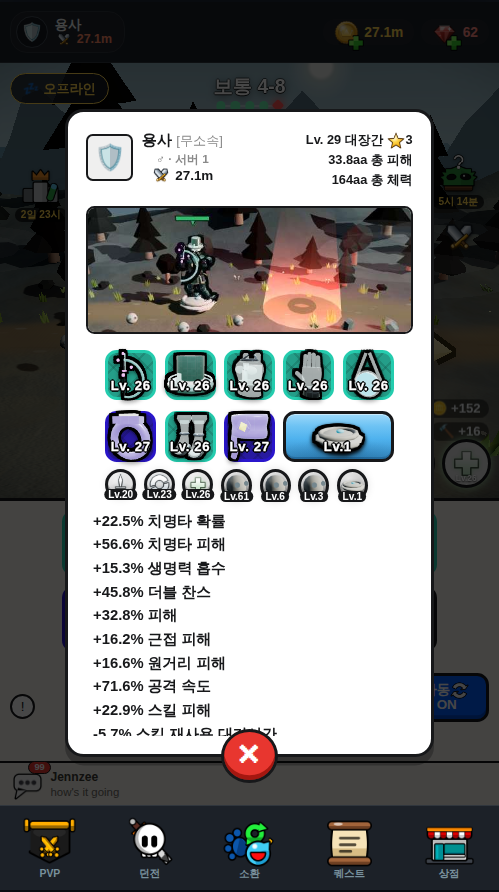
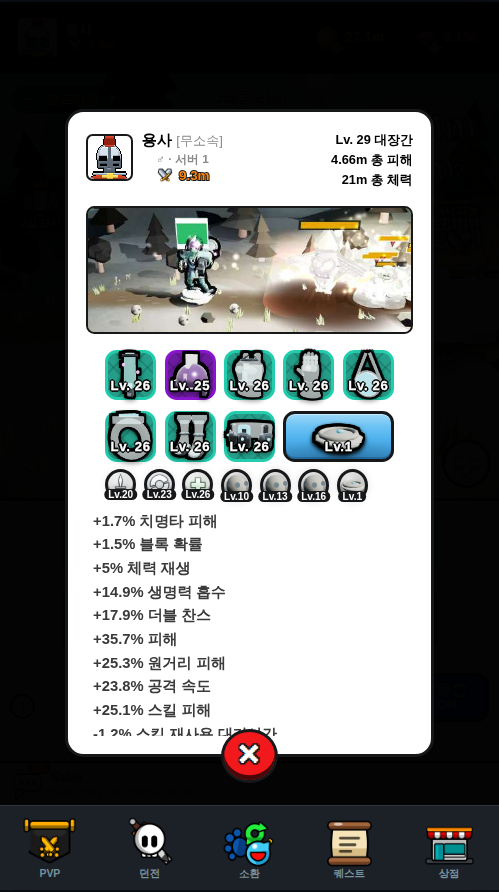
플레이어 정보 팝업 AAA 스킨 — 전투력·본문 잉크·✕ 를 원본 실측값으로 (aaa-skin ⑭)
원본 shot-043313 픽셀 단면에서 뽑은 값만 반영. 레이아웃은 기존 probe-pinfo-px
7요소 초과 0건(최대 +0.55%p)을 먼저 확인하고 건드리지 않았다.

- 전투력 숫자: --pp-ink(어두운 회색) → #ff880f + 검정 키라인.
  원본 헤더에서 가장 눈에 띄는 요소가 묻혀 있었다.
- 이름·우측 스탯: --pp-ink → 순검정(원본 획이 #000000)
- 하단 옵션 목록: --pp-ink → #3a3a3a. 굵어 보여 검정으로 오독하기 쉽지만
  원본 획 바닥값이 10군데에서 전부 #3a3a3a 다(⑫ .petd-subs 와 같은 위계).
- ✕ 면 #f2191d · 아래턱 #4a0709 · 흰 획 + 검정 키라인.
  ⑫·⑬ 에 이어 세 화면째 같은 값 — 알 상세·탈것 상세만 재면 전역 승격 가능.

전부 #player-info-modal 스코프(공용 클래스라 안 잰 화면이 끌려가지 않게).

검증: probe-pinfo-px 7요소 초과 0건(변경 후 동일) ·
probe-screens-errors 31/31 화면 콘솔 에러 0건

diff --git a/web/css/style.css b/web/css/style.css
@@ -5408,3 +5408,28 @@ body {
         drop-shadow(0 calc(var(--sw) * -1) 0 var(--slot-outc))
         drop-shadow(0 2px 2px rgba(0,0,0,.35));
 }
+
+/* ---- ⑭ 플레이어 정보 팝업 AAA 스킨 (원본 shot-043313 픽셀 실측 2026-08-18 · 배치는 손대지 않는다) ----
+   ① 레이아웃은 `probe-pinfo-px.js` 7요소 **초과 0건**(최대 +0.55%p)이라 한 줄도 안 건드렸다.
+   원본 496×880 의 색 단면에서 뽑은 값만 쓰고, 공용 클래스는 `#player-info-modal` 로 가둔다.
+   ㉠ 전투력 = y188 가로 단면이 **#ff880f + 검정 키라인**(획 #ff880f, 음영 #c1670b·#a05509, 경계 #000000).
+      클론은 `--pp-ink` 라 **어두운 회색 숫자**였다 — 원본에서 가장 눈에 띄는 요소가 죽어 있었다.
+   ㉡ 이름·우측 스탯 = **순검정**(y150 이름 획 #000000 / y163 우측 획 #000000). `--pp-ink`(#17181a)보다 진하다.
+      우측 줄 끝 ⭐ 는 원본이 **#ff8900**(x395~401)이다 — IconGen 소관이라 색만 기록하고 두: 아이콘은 안 건드린다.
+   ㉢ 🚨 하단 옵션 목록은 **순검정이 아니라 #3a3a3a 회색**이다(y551 단면의 획 바닥값이 x132·142·147·156·163·
+      168·170·185·192·199 에서 전부 #3a3a3a 로 반복). 굵어 보여서 검정으로 오독하기 쉽다 — ⑫ 의 `.petd-subs`
+      와 같은 값이라, 본문 잉크에 위계를 두는 게 이 게임의 규칙이다(제목·수치=검정, 옵션 목록=#3a3a3a).
+   ㉣ ✕ = 면 **#f2191d** · 아래턱 **#4a0709**(y774~779) · 글리프 흰 획 + 검정 키라인(y752~757 #ffffff → y759 #000000).
+      ⑫ 펫 상세·⑬ 펫 업그레이드에 이어 **세 화면에서 독립적으로 같은 값**이 나왔다 — 사실상 이 게임의 전역
+      ✕ 언어다. 다만 알 상세·탈것 상세가 아직 원본 대조 전이라 전역 `.x-btn` 승격은 미루고 스코프를 유지한다
+      (다음 세션이 그 두 화면을 재면 셋을 묶어 전역으로 올릴 것). */
+#player-info-modal .pinfo-id-text .cp {
+    color: #ff880f; -webkit-text-stroke: 2px var(--pp-line); paint-order: stroke fill;
+}
+#player-info-modal .pinfo-id-text .name,
+#player-info-modal .pinfo-right { color: #000; }
+#player-info-modal .pinfo-subs-list { color: #3a3a3a; }
+#player-info-modal .x-btn {
+    background: #f2191d; box-shadow: inset 0 -.28rem 0 #4a0709;
+    color: #fff; -webkit-text-stroke: 3px var(--pp-line); paint-order: stroke fill;
+}

diff --git a/web/TODO.md b/web/TODO.md
@@ -2053,6 +2053,15 @@
       · ⚠ **프로브 함정 1개(기록)**: 정적 프로브에서 `Combat.tick` 을 끄면 ⓐ aoe 대상이 사거리(x<3.2) 밖 스폰 위치에 서 있어 0명이 되고 ⓑ pending 시계를 substep 반올림으로 흘리면(round(sec*120)) 12ms 요청에 8.3ms 만 흘러 250ms 셰이크가 캡처 창 밖으로 밀린다. 둘 다 프로브에서 고쳤다(적을 사거리로 당김 · pending 은 한 번에 정확히 sec).
       · **회귀**: `probe-screens-errors` **31/31 화면 콘솔 에러 0** · `node --check` combat.js·scene3d.js OK · `shot-skillfx-seq powerStrike` 1박 존재·콘솔 에러 0.
 - [ ] **전 화면 AAA 스킨 업그레이드 (화면당 커밋 하나, 재작업 목록 순서대로)**: 지금 UI는 원본 레이아웃 재현까지는 됐지만 비주얼이 원본 수준(플랫)에 머물러 있다. 화면별로: ① **레이아웃 검증** — 원본 shot을 Read로 열고 클론 스크린샷과 겹쳐 요소별 위치/크기/간격/폰트 비율이 어긋나지 않는지 확인, 어긋나면 먼저 교정 (레이아웃은 원본이 절대 기준 — 임의 변경 금지) ② **AAA 스킨** — 배치는 그대로 두고 표면 품질만 끌어올린다: 다층 그라디언트·미묘한 노이즈/텍스처, 버튼 입체감(하이라이트 엣지+아래턱+눌림 상태), 카드 깊이(레이어드 그림자·앰비언트 글로우), 등급색 보석/금속 질감, 아이콘 정제(이모지 그대로 두더라도 배경 배지·림 라이트로 고급화), 타이포 위계(굵기·자간·외곽선 정리), 게이지 광택/애니메이션, 팝업 등장 트랜지션(스케일+페이드 이징) ③ 성능: CSS 위주(대형 blur 남용 금지), 60fps 유지 ④ 검증: 비평가(Task 서브에이전트) 이중 채점 — (a) 레이아웃이 원본 스크린샷과 비율까지 일치하는가 (b) 비주얼이 'AAA 모바일 게임 UI 스크린샷으로 믿을 수 있는가' 절대 기준 10점 중 9점 이상, 둘 다 통과해야 커밋. 대상 화면 목록은 위 'UI 레이아웃 전면 재작업' 섹션의 재작업 체크리스트(17개 화면 + 통과 화면들)를 그대로 재사용하고, 화면마다 진행 메모를 남길 것.
+  - **진행 메모 ⑭ 플레이어 정보 팝업 (UI 스트림, 2026-08-18 — 재작업 목록 14번 화면. 항목은 [ ] 유지, 비평가 채점 미실시)**: 원본 `shot-043313`(496×880) 대조. 락 슬러그 `aaa-skin`. ① 레이아웃은 **이미 도구가 있다** — `tools/probe-pinfo-px.js`(7요소 판정)를 그대로 돌려 **초과 0건**(최대 +0.55%p)을 확인하고 손대지 않았다. ⚠ `probe-profile-dom.js` 는 **다른 화면(프로필 팝업 shot-042724)** 이니 헷갈리지 말 것.
+    - 🚨 **이 화면이 내 딤 교정(⑬)의 반례처럼 보였지만, 재 보니 오히려 여섯 번째 확증이었다.** 원본을 눈으로 보면 상단바(`783k`·`62`)와 배경 씬이 **또렷하게 보여서** '이 팝업만 딤이 옅다'고 판단하기 쉽다 — 실제로 이 세션도 한 번 그렇게 의심했다. 그런데 픽셀을 재면 탭바 행 y=862 이 **#010203 단일값**이고 상단바 글자 획도 **#0b0b0b~#190d01**(최대 밝기의 1~10%)이다. 즉 눈에 보이는 건 알파 .985 가 남기는 **1.5% 블리드**다. **원본 스샷의 어두운 영역은 눈으로 판정하지 말 것 — 화면/뷰어가 어두운 쪽을 들어 올려 보여준다.**
+    - ② **원본 픽셀 단면 실측 기반 4건, 전부 `#player-info-modal` 스코프**(공용 클래스라 전역에 두면 안 잰 화면이 끌려간다):
+      · 🚨 **전투력 숫자가 죽어 있었다** — 원본은 **#ff880f + 검정 키라인**(y188 단면: 획 #ff880f, 음영 #c1670b·#a05509, 경계 #000000)인데 클론은 `--pp-ink` 라 **어두운 회색 숫자**였다. 원본 헤더에서 가장 눈에 띄는 요소가 통째로 묻혀 있던 셈이다.
+      · **이름·우측 스탯**은 원본이 **순검정**(y150·y163 획 #000000), 클론은 `--pp-ink #17181a` 였다.
+      · 🚨 **하단 옵션 목록은 순검정이 아니라 #3a3a3a 회색이다** — y551 단면의 획 바닥값이 10군데에서 전부 #3a3a3a 로 반복된다. 굵어 보여 검정으로 오독하기 쉽다. ⑫ 의 `.petd-subs` 와 같은 값이라 **제목·수치=검정 / 옵션 목록=#3a3a3a** 가 이 게임의 본문 잉크 위계로 보인다.
+      · **✕** = 면 #f2191d · 아래턱 #4a0709 · 흰 획 + 검정 키라인.
+    - 📌 **✕ 값이 이제 세 화면(⑫·⑬·⑭)에서 독립적으로 같게 나왔다 — 사실상 전역 언어다.** 전역 `.x-btn`(`--pp-red #e8362f` / `--pp-red-dk #a51710`)이 틀린 것이므로, **알 상세·탈것 상세만 원본 대조하면 셋을 묶어 전역으로 승격**하는 게 맞다(그 두 화면이 미측정이라 이번에도 스코프를 유지했다). 다음 UI 세션의 값싼 한 건.
+    - 📌 **다음 세션이 이어받을 것** — ⓐ **이 화면의 비평가 2인 채점(미실시)**. ⓑ **헤더 구조 차이(손 안 댐)**: 원본은 이름 오른쪽에 **배지 2개**가 인라인으로 붙는다(파랑 `#005efb` ♂ 배지 · 청록 `#34bebe` 배지, 둘 다 검정 키라인 — y150 x228~266 실측). 클론은 `♂ · 서버 1` 을 **아랫줄 회색 텍스트**로 흘린다. 색이 아니라 마크업 구조라 ② 스킨 범위 밖이고, 헤더 높이가 바뀌면 아래 `오브 줄 상단`(게이트 97.86%H)이 밀리므로 **고칠 때 반드시 `probe-pinfo-px.js` 를 다시 돌릴 것**. ⓒ 전투 미니 프리뷰가 원본은 **2D 픽셀 전투 스냅샷**(초록 잔디+갈색 길)인데 클론은 3D 렌더라 화풍이 다르다 — 3D 스트림 소관. ⓓ 우측 줄 ⭐ 는 원본 **#ff8900** 인데 클론 IconGen 별과 다르다(`icon-gen` 소관, 색만 기록). ⓔ 다음 화면은 재작업 목록 **⑮ 모든 장비 목록(shot-042905)**.
   - **진행 메모 ⑬ 펫 업그레이드 팝업 (UI 스트림, 2026-08-18 — 재작업 목록 13번 화면. 항목은 [ ] 유지, 비평가 채점 미실시)**: 원본 `shot-042503`(505×889) 대조. 락 슬러그 `aaa-skin`. ① 레이아웃은 `probe-petupgrade-dom.js` 를 먼저 돌려 **21요소 초과 0건**(최대 +0.99%p)을 확인하고 **한 줄도 안 건드렸다** — 이 세션의 변경은 전부 색·획이라 DOM 박스에 안 닿는다.
     - ⚠ **원본의 '선택 슬롯 1칸 + 밑줄 5개' 행은 복원 대상이 아니다.** 클론의 등급별 일괄 선택 버튼 행은 사용자 지시("개수 제한 철폐")로 대체한 것이라(`renderPetUpgrade` 주석) 원본과 다른 게 정상이고, 프로브도 그 자리의 세로 위치를 게이트에서 빼 뒀다. 원본만 보고 되돌리지 말 것.
     - 🚨 **가장 큰 차이는 이 화면 것이 아니라 전역 딤이었다 — `.modal` 배경 `rgba(0,0,0,.72)` 는 너무 옅다.** 원본 팝업 **5장**(042503·042449·042304·042831·042208)의 탭바 행 `y=862` 을 전부 재 보면 배경이 **#000000~#010203** 이고, 042831 은 x30~300 전 구간이 **한 값(#010203)** 이라 내용이 남아 있지 않다. 역산: 클론 탭바 면 `#1c2128` 이 0 이 되려면 a>.988, 빨간 ✕ `#e8362f` 가 `#010000` 이 되려면 a≈.996 → **`.985` 로 올렸다.** 종전 값에 붙어 있던 '원본 딤 강도(185 재채점)' 주석은 실측과 어긋나 교체했다. 교정 후 카드 위 배경(x250 y0~100) 클론 **#000000~#040404** vs 원본 #010000~#020202 로 일치. `.modal` 은 22개 전부 같은 클래스라 전 팝업에 균일하게 적용된다.
